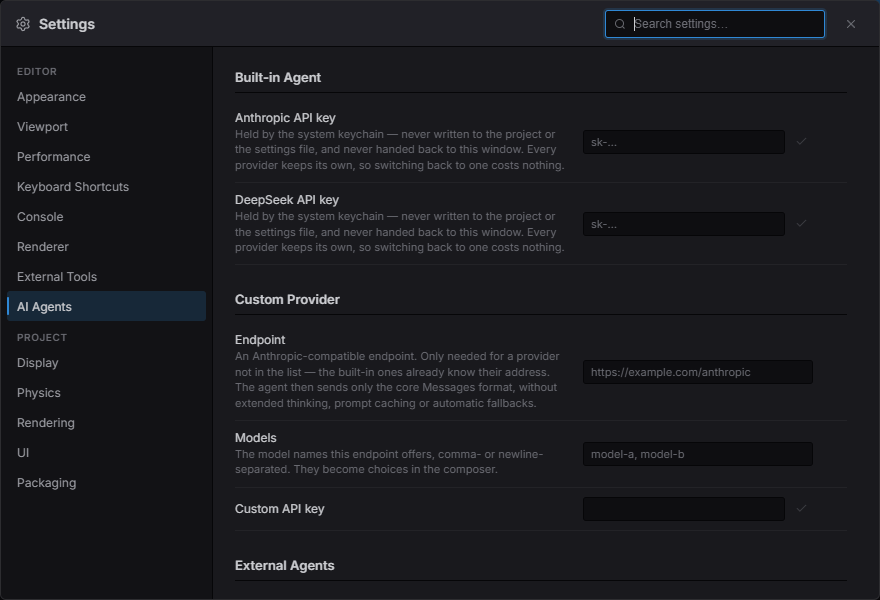
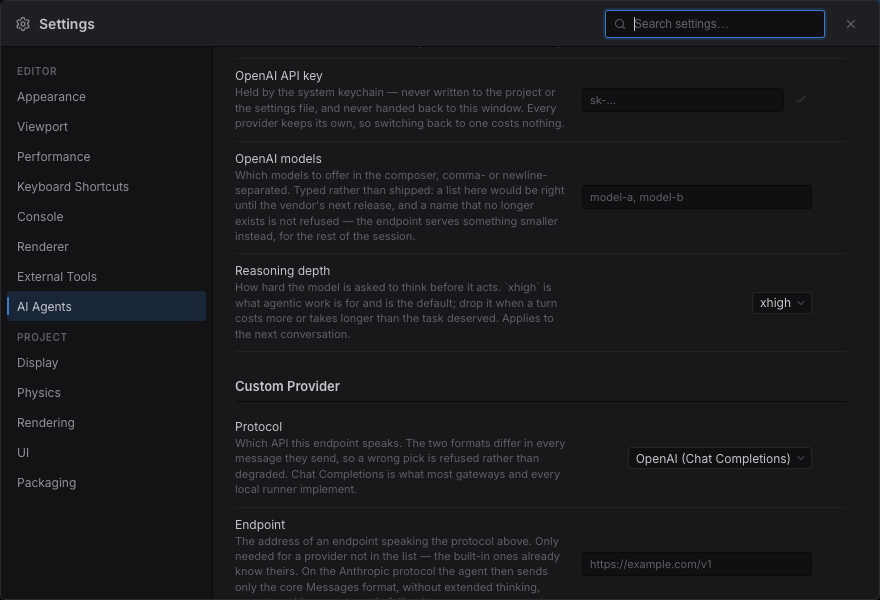
docs(agent): a second protocol, in the guide and in the changelog
The setup section said "any Anthropic-compatible endpoint" and its
screenshot showed two key rows. Both are now wrong in a way a reader acts
on: there is a protocol to pick before the address, and OpenAI wants its
model names typed rather than shipped.

The screenshot is reframed rather than just retaken — the dialog is a fixed
600px and the section has outgrown it, so it spans the rows that are new
(the OpenAI key, the models it does not ship, the protocol picker) and the
caption says so.

The changelog gets an Unreleased section for this session's work: the
protocol, the running world's Outliner, the asset-delete rescans, the
Content Browser's tiles, and the prefab override that aimed at nobody. The
34 commits that landed before this session are not in it — those are not
mine to describe.

diff --git a/CHANGELOG.md b/CHANGELOG.md
@@ -12,6 +12,68 @@ Version numbers here track the **Estella release** — the engine + editor + SDK
 shipped together, matching the Git tags and GitHub Releases. The SDK is not
 published separately; it ships inside the editor.
 
+## [Unreleased]
+
+### Added
+
+- **The built-in agent speaks OpenAI's protocol, not only Anthropic's.** Chat
+  Completions is what OpenAI serves and what almost everything else implements —
+  the other vendors, the aggregators, and every local runner (Ollama, vLLM, LM
+  Studio). It is a second provider rather than a third dialect of the first: tool
+  calls arrive as a field on the assistant message with their arguments as a
+  string, each result goes back as its own message, and the stream is untyped
+  deltas stitched by index. The Custom Provider gained a **protocol** picker;
+  OpenAI ships as a provider with its address and protocol but not its model
+  names, which you type — a list shipped in the editor would be right until the
+  vendor's next release, and a name that no longer exists is not refused, it is
+  quietly served by something smaller for the rest of the session.
+
+- **The running world's Outliner folds, filters, and hides.** In Play, the Game
+  tree was every row forced open with no twist, no search and no eye — a world of
+  a few thousand entities arrived fully flattened. Rows start collapsed, the
+  header carries a search box and expand/collapse-all, and the eye turns a live
+  entity off to find out what it was. A UI node hides through `display`, so one
+  click takes a whole HUD with it; a row with nothing of its own to hide gets no
+  eye rather than one that does nothing.
+
+### Fixed
+
+- **`setEntityVisible` knew three renderers; the scene manager knew six.** Two
+  lists answered the same question and disagreed, so calling this public API on a
+  Spine armature, a particle system or a UI element silently did nothing at all.
+  One list now, and a UI node hides through `display` — which the layout pass
+  resolves down the tree, because hiding a panel has to hide what is inside it.
+
+- **Deleting assets no longer re-reads the whole project once per file.** On a
+  project with 36k assets, selecting a folder's worth and pressing Delete took 52
+  seconds to show the confirm dialog for 22 files, and never came back for more.
+  The dialog asked what references each asset one asset at a time, each answer a
+  fresh disk walk; and the *incremental* re-scan recomputed the entire dependency
+  graph anyway, because a removal changes the entry set and that was treated as
+  "resolution changed". It is not: dropping an entry can only delete edges
+  pointing at it. One scan for the batch, and only the documents that referenced
+  something removed are re-read. Those 22 files now take 2.2 seconds.
+
+- **The Content Browser no longer mounts a tile per file in the folder.** A folder
+  of 788 sprites built 788 tiles and decoded 788 full-size images — 26 megapixels
+  resident for the twenty on screen. Both views are windowed now, over the same
+  scroll-window implementation the Outliner uses.
+
+- **Stopping the agent mid-run no longer breaks the conversation** on endpoints
+  that require every tool call to be answered.
+
+- **Leaving Play no longer strands the Outliner and Details on the running world.**
+  Stop takes the world picker away, so a choice that outlived the realm left both
+  panels showing a world that no longer exists, with nothing on screen able to
+  switch them back.
+
+- **`prefabEntityId: '0'` is refused rather than dropped in silence**, and the
+  sample code that still taught it was fixed. `'0'` is the id every prefab had
+  before stable ids; a prefab saved by the editor since has a UUID, so an override
+  carrying `'0'` aimed at nobody — every instance spawned at the position the
+  prefab was authored with, and nothing said why. An override with no
+  `prefabEntityId` now means the root, which is the entity a one-sprite prefab has.
+
 ## [0.44.0] - 2026-08-05
 
 ### Added
